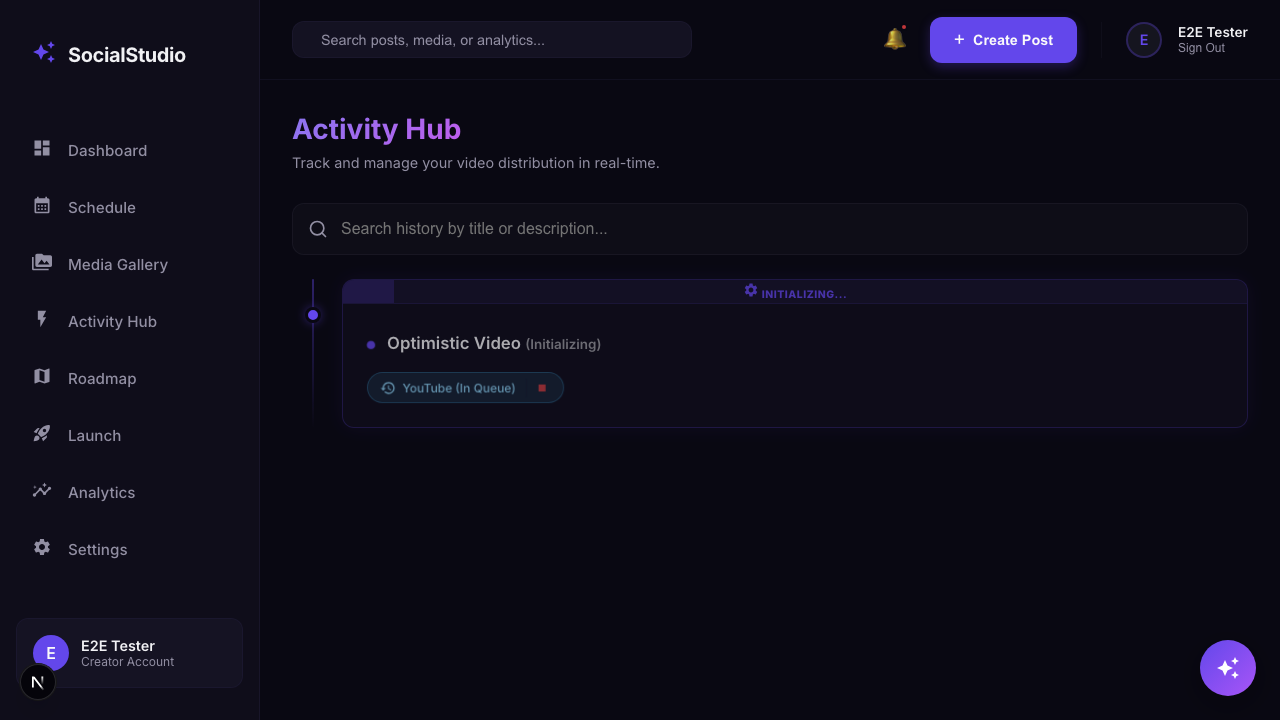
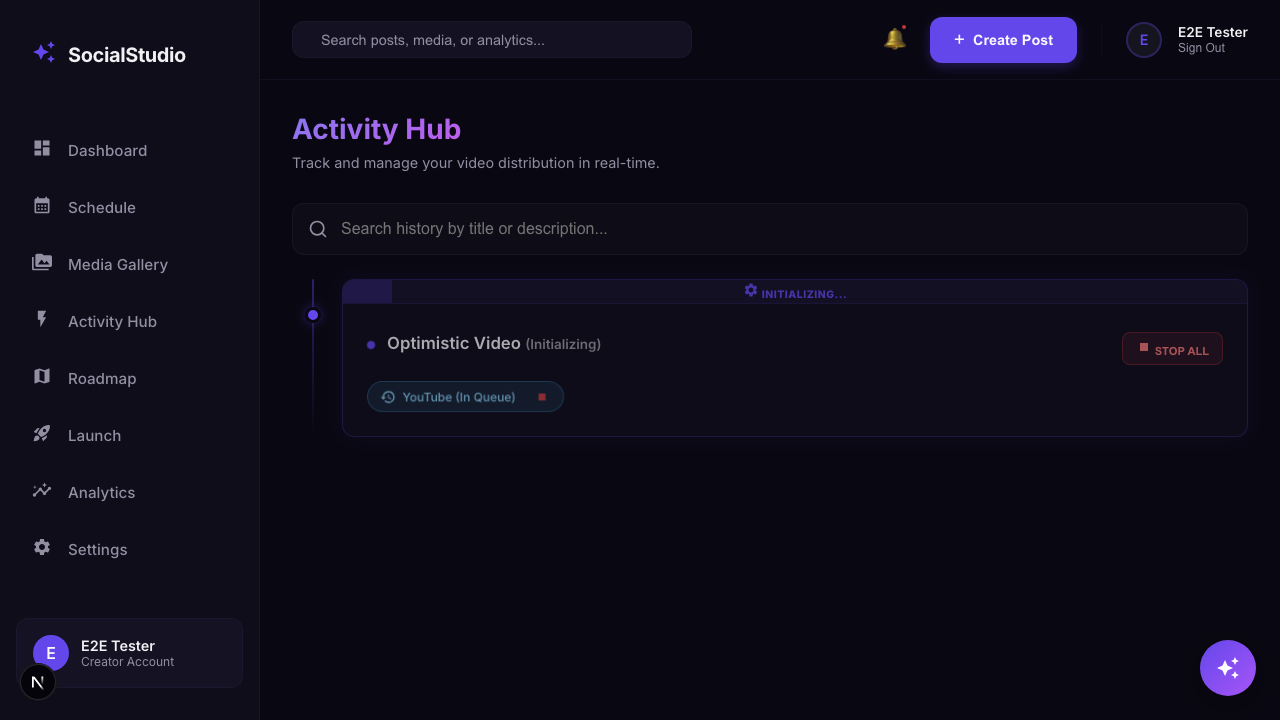
feat(history): enable cancellation on optimistic Ghost Card and fix server errors

Changed region(s): [[0.2812, 0.5194, 0.4375, 0.5806], [0.875, 0.4583, 0.9375, 0.5194]]

diff --git a/src/app/history/page.tsx b/src/app/history/page.tsx
@@ -249,7 +249,7 @@ function HistoryContent() {
     
     const pending = localStorage.getItem('SS_PENDING_POST');
     if (!pending) {
-      setInPlaceStatus(" No pending post found in storage.");
+      setInPlaceStatus("No pending post found in storage.");
       return;
     }
     
@@ -262,7 +262,7 @@ function HistoryContent() {
       setActiveResumingId('cockpit-active');
     }
 
-    setInPlaceStatus(" Synchronizing Activity Hub...");
+    setInPlaceStatus("Synchronizing Activity Hub...");
     // REFRESH LIST TO SHOW THE NEW ROW
     try {
       const freshData = await fetchHistory();
@@ -270,18 +270,18 @@ function HistoryContent() {
     } catch (e) { console.error("Initial list refresh failed", e); }
     
     try {
-      setInPlaceStatus(" Accessing local video storage...");
+      setInPlaceStatus("Accessing local video storage...");
       let stagedFileId = post.galleryFileId;
       let fileName = post.galleryFileName || '';
       let historyId = post.resumeHistoryId || '';
 
       // 1. Stage Physical File if needed
       if (!stagedFileId) {
-        setInPlaceStatus(" Searching for draft file...");
+        setInPlaceStatus("Searching for draft file...");
         const file = await getDraftFile();
         if (!file) throw new Error("Video file not found in browser. Please re-select it on the dashboard.");
         
-        setInPlaceStatus(` Initializing upload for ${file.name}...`);
+        setInPlaceStatus(`Initializing upload for ${file.name}...`);
         const stageResult = await stageVideoFile({
           file,
           onStatusUpdate: setInPlaceStatus,
@@ -306,7 +306,7 @@ function HistoryContent() {
       // 2. AI Generation if needed (Auto-Pilot)
       let reviewedContentToPass: Record<string, AIWriteResult> | undefined = undefined;
       if (post.aiTier !== 'Manual' && post.skipReview) {
-        setInPlaceStatus(" Generating AI Strategy...");
+        setInPlaceStatus("Generating AI Strategy...");
         const { getMultiPlatformAIPreviews } = await import('@/app/actions/ai');
         const targetPlatformNames = post.platforms.map((p: PlatformResult) => p.platform);
         
@@ -407,15 +407,21 @@ function HistoryContent() {
     }
   };
 
-  const handleCancelPlatform = async (e: React.MouseEvent, resultId: string) => {
+  const handleCancelPlatform = async (e: React.MouseEvent, resultId: string, platform?: string, historyId?: string) => {
     e.preventDefault();
     e.stopPropagation();
     if (processingIds.includes(resultId)) return;
 
     setProcessingIds(prev => [...prev, resultId]);
     try {
-      const { cancelPlatformUploadAction } = await import('@/app/actions/history');
-      await cancelPlatformUploadAction(resultId);
+      if (resultId.startsWith('optimistic-') && platform && historyId && historyId !== 'optimistic-pending') {
+        const { cancelPlatformByPostAction } = await import('@/app/actions/history');
+        await cancelPlatformByPostAction(historyId, platform);
+      } else if (!resultId.startsWith('optimistic-')) {
+        const { cancelPlatformUploadAction } = await import('@/app/actions/history');
+        await cancelPlatformUploadAction(resultId);
+      }
+      
       const data = await fetchHistory();
       setPosts(data.data || []);
     } catch (err: unknown) {
@@ -435,9 +441,9 @@ function HistoryContent() {
       if (staging) {
         try {
           const { historyId: stagedId } = JSON.parse(staging);
-          if (stagedId === historyId) {
+          if (stagedId === historyId || historyId === 'optimistic-pending') {
             localStorage.setItem('SS_STAGING_STATUS', JSON.stringify({
-              historyId,
+              historyId: stagedId, // Preserve the real ID if we have it
               active: false,
               status: 'Stopped by user',
               timestamp: Date.now()
@@ -452,6 +458,12 @@ function HistoryContent() {
     setActiveResumingId(null);
     setInPlaceStatus(null);
     
+    if (historyId === 'optimistic-pending') {
+      // Just clear local state, no server record yet
+      setPosts(prev => prev.filter(p => (p as any).id !== 'optimistic-pending'));
+      return;
+    }
+
     try {
       const { cancelAllUploadsAction } = await import('@/app/actions/history');
       await cancelAllUploadsAction(historyId);
@@ -480,13 +492,13 @@ function HistoryContent() {
 
   const handleInPlaceResume = async (post: PostHistoryEntry) => {
     setActiveResumingId(post.id);
-    setInPlaceStatus(" Checking browser storage...");
+    setInPlaceStatus("Checking browser storage...");
     
     try {
       const file = await getDraftFile();
       
       if (!file) {
-        setInPlaceStatus(" Please select the video file to resume...");
+        setInPlaceStatus("Please select the video file to resume...");
         if (fileInputRef.current) {
           fileInputRef.current.onchange = (e: Event) => {
              const target = e.target as HTMLInputElement;
@@ -506,7 +518,7 @@ function HistoryContent() {
   };
 
   const executePipeline = async (post: PostHistoryEntry, file: File) => {
-    setInPlaceStatus(" Starting resumption...");
+    setInPlaceStatus("Starting resumption...");
     try {
       const { stagedFileId, fileName, historyId } = await stageVideoFile({
         file,
@@ -554,6 +566,7 @@ function HistoryContent() {
 
   const renderPlatformPill = (p: PlatformResult, post: PostHistoryEntry) => {
     const resolvedPlatform = p.platform.toLowerCase();
+    const isOptimistic = (post as any).isOptimistic;
     
     // Support multi-local platforms (local1, local2, etc)
     const basePlatform = resolvedPlatform.startsWith('local') ? 'local' : 
@@ -626,10 +639,10 @@ function HistoryContent() {
               <RefreshIcon sx={{ fontSize: 14 }} />
             </button>
           )}
-          {isPending && !isPostStale && (
+          {(isPending || isOptimistic) && !isPostStale && (
             <button 
               className={styles.pillActionButton} 
-              onClick={(e) => handleCancelPlatform(e, p.id)}
+              onClick={(e) => handleCancelPlatform(e, p.id, p.platform, post.id)}
               title="Stop Platform Upload"
               style={{ color: '#EF4444' }}
             >
@@ -833,6 +846,17 @@ function HistoryContent() {
                           return null;
                         })()}
                       </div>
+                    )}
+                    {isOptimistic && (
+                        <div className={styles.metaBadges}>
+                           <button 
+                            className={styles.stopAllButton}
+                            onClick={(e) => handleCancelAll(e, post.id)}
+                            title="Stop All active distributions for this post"
+                          >
+                            <StopIcon sx={{ fontSize: 16 }} /> STOP ALL
+                          </button>
+                        </div>
                     )}
                   </div>
 

diff --git a/src/__tests__/e2e/upload-visibility.spec.ts b/src/__tests__/e2e/upload-visibility.spec.ts
@@ -36,8 +36,6 @@ test.describe('Activity Hub: Upload Preparation Bar', () => {
       }));
     });
     
-    // No reload needed if we wait for polling or just trigger a manual check
-    // But reload is safer to ensure hook picks it up from start
     await page.reload();
 
     const postCard = page.getByTestId('history-post-post-123');
@@ -75,11 +73,9 @@ test.describe('Activity Hub: Upload Preparation Bar', () => {
     // Click STOP ALL
     await stopButton.click();
     
-    // Wait for the localStorage signal to be set to active: false
-    // useUploadStatus polls every 500ms, so we allow enough time
     await expect.poll(async () => {
       const raw = await page.evaluate(() => localStorage.getItem('SS_STAGING_STATUS'));
-      if (!raw) return true; // Could have been cleared already by the 1s timeout in handleCancelAll
+      if (!raw) return true;
       try {
         const parsed = JSON.parse(raw);
         return parsed.active;
@@ -88,12 +84,10 @@ test.describe('Activity Hub: Upload Preparation Bar', () => {
       }
     }, { timeout: 10000 }).toBe(false);
 
-    // Now the UI should reflect this (bar gone)
     await expect(postCard.getByTestId('preparation-bar')).not.toBeVisible();
   });
 
   test('Optimistic UI: Shows ghost card immediately', async ({ page }) => {
-    // 1. Mock empty history to ensure only optimistic shows
     await page.route('**/api/history*', async (route) => {
         await route.fulfill({
           status: 200,
@@ -102,10 +96,8 @@ test.describe('Activity Hub: Upload Preparation Bar', () => {
         });
       });
 
-    // 2. Navigate first to ensure origin is set, then inject
     await page.goto('/history');
 
-    // 3. Inject pending post
     await page.evaluate(() => {
       localStorage.setItem('SS_PENDING_POST', JSON.stringify({
         title: 'Optimistic Video',
@@ -116,7 +108,6 @@ test.describe('Activity Hub: Upload Preparation Bar', () => {
 
     await page.reload();
 
-    // 4. Verify optimistic card
     const ghostCard = page.getByText(/Optimistic Video/i);
     await expect(ghostCard).toBeVisible();
     await expect(page.getByText(/Initializing/i).first()).toBeVisible();
@@ -125,20 +116,16 @@ test.describe('Activity Hub: Upload Preparation Bar', () => {
   });
 
   test('Optimistic UI: Ghost card persists after fetch without record', async ({ page }) => {
-    // 1. Initial empty mock
-    let callCount = 0;
     await page.route('**/api/history*', async (route) => {
-      callCount++;
       await route.fulfill({
         status: 200,
         contentType: 'application/json',
-        body: JSON.stringify({ data: [] }) // Still empty
+        body: JSON.stringify({ data: [] })
       });
     });
 
     await page.goto('/history');
 
-    // 2. Inject pending post
     await page.evaluate(() => {
       localStorage.setItem('SS_PENDING_POST', JSON.stringify({
         title: 'Persistent Ghost',
@@ -149,15 +136,49 @@ test.describe('Activity Hub: Upload Preparation Bar', () => {
 
     await page.reload();
 
-    // 3. Verify it's there
     await expect(page.getByText('Persistent Ghost')).toBeVisible();
+    await expect(page.getByText('Persistent Ghost')).toBeVisible();
+  });
 
-    // 4. Wait for a poll (should be 15s since no active posts, but we can trigger it or wait)
-    // Actually, we mocked the route to return empty. 
-    // Even if it polls, it should stay visible.
+  test('Optimistic UI: Individual platform stop on ghost card', async ({ page }) => {
+    await page.route('**/api/history*', async (route) => {
+      await route.fulfill({
+        status: 200,
+        contentType: 'application/json',
+        body: JSON.stringify({
+          data: [{
+            id: 'real-id-456',
+            title: 'Optimistic Video',
+            videoFormat: 'short',
+            createdAt: new Date().toISOString(),
+            platforms: [{ id: 'real-p-1', platform: 'youtube', status: 'pending', progress: 0 }]
+          }]
+        })
+      });
+    });
+
+    await page.route('**/api/history/cancel-platform*', async (route) => {
+      await route.fulfill({ status: 200, body: JSON.stringify({ success: true }) });
+    });
+
+    await page.goto('/history');
+
+    await page.evaluate(() => {
+      localStorage.setItem('SS_PENDING_POST', JSON.stringify({
+        historyId: 'real-id-456',
+        title: 'Optimistic Video',
+        videoFormat: 'short',
+        platforms: [{ platform: 'youtube', accountId: '1' }]
+      }));
+    });
+
+    await page.reload();
+
+    const postCard = page.getByTestId('history-post-real-id-456');
+    const stopButton = postCard.getByRole('button', { name: /Stop Platform Upload/i });
+    await expect(stopButton).toBeVisible();
     
-    // We can simulate another load or just wait.
-    // The previous bug was that it disappeared after the FIRST fetch.
-    await expect(page.getByText('Persistent Ghost')).toBeVisible();
+    await stopButton.click({ force: true });
+    await expect(postCard).toBeVisible();
   });
 });

diff --git a/src/app/actions/history.ts b/src/app/actions/history.ts
@@ -236,6 +236,36 @@ export async function cancelPlatformUploadAction(resultId: string) {
 }
 
 /**
+ * Cancels a specific platform distribution task by post ID and platform name.
+ * Useful for optimistic UI states where the result ID isn't known yet.
+ */
+export async function cancelPlatformByPostAction(historyId: string, platform: string) {
+  return protectedAction(async (userId) => {
+    const result = await prisma.postPlatformResult.findFirst({
+      where: { 
+        postHistoryId: historyId,
+        platform: platform,
+        postHistory: { userId }
+      }
+    });
+
+    if (!result) {
+      throw new Error('Upload result not found.');
+    }
+
+    await prisma.postPlatformResult.update({
+      where: { id: result.id },
+      data: { 
+        status: 'cancelled',
+        errorMessage: 'Stopped by user'
+      }
+    });
+
+    return { success: true };
+  });
+}
+
+/**
  * Cancels all platform distribution tasks for a specific post.
  */
 export async function cancelAllUploadsAction(historyId: string) {
